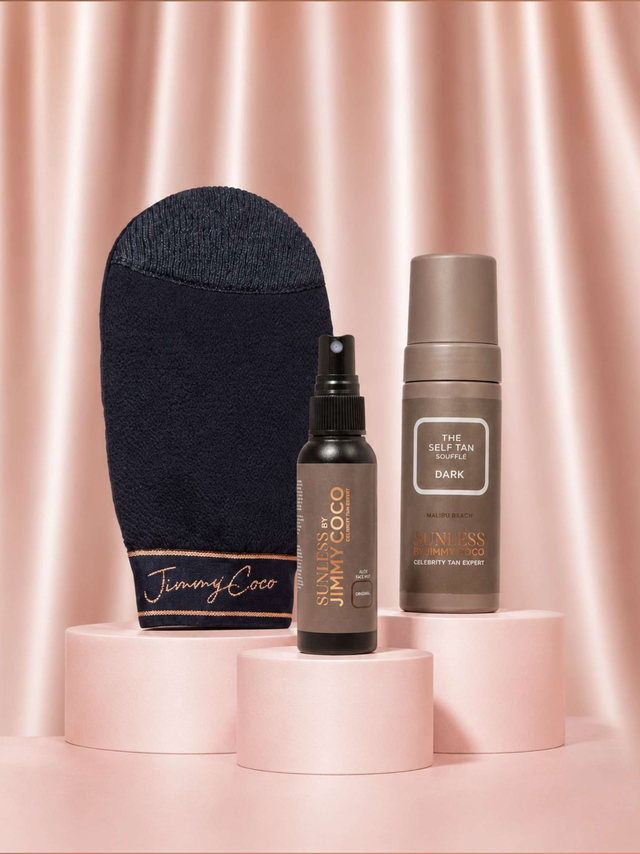
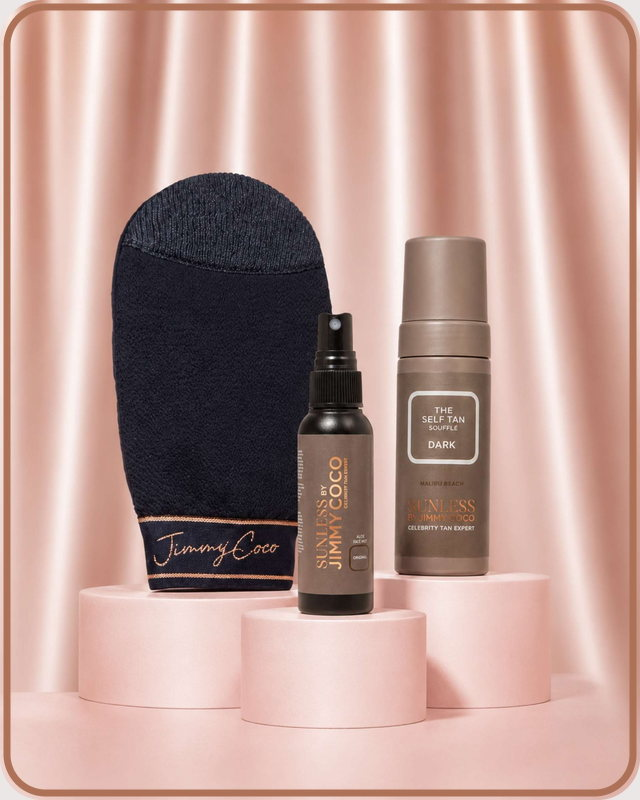
UpdateImages

diff --git a/existing-campaigns/flashsale/fullcampaign/email.html b/existing-campaigns/flashsale/fullcampaign/email.html
@@ -100,7 +100,7 @@
 
         <td class="third" width="33.33%" valign="top" align="center" style="padding:0;">
           <table role="presentation" width="100%" cellpadding="0" cellspacing="0" border="0"><tr><td class="third-gap" align="center" style="padding:0 7px;">
-          <a href="https://jimmycoco.co.uk" target="_blank"><img class="fluid" src="https://jimmycoco.email/email-assets/flash-sale/images/bundle-duo.jpg" width="320" height="427" alt="Malibu Beach Duo &mdash; two Self Tan Souffl&eacute;s" style="display:block;width:100%;max-width:180px;height:auto;border:0;margin:0 auto;"></a>
+          <a href="https://jimmycoco.co.uk" target="_blank"><img class="fluid" src="https://jimmycoco.email/email-assets/flash-sale/images/bundle-duo.jpg" width="180" height="225" alt="Malibu Beach Duo &mdash; two Self Tan Souffl&eacute;s" style="display:block;width:100%;max-width:180px;height:auto;border:0;margin:0 auto;"></a>
           <p class="serif bronze bundle-name" style="margin:14px 0 6px;font-family:'Playfair Display',Georgia,serif;font-size:15px;line-height:20px;color:#A36B52;">Malibu Beach Duo</p>
           <p class="sans bundle-price" style="margin:0;font-family:'Poppins',Arial,sans-serif;font-size:15px;line-height:21px;color:#9B5F44;"><span style="text-decoration:line-through;color:#B58974;font-weight:400;">WAS &pound;35</span> <strong style="font-weight:600;color:#9B5F44;">NOW &pound;28</strong></p>
           </td></tr></table>
@@ -108,7 +108,7 @@
 
         <td class="third" width="33.33%" valign="top" align="center" style="padding:0;">
           <table role="presentation" width="100%" cellpadding="0" cellspacing="0" border="0"><tr><td class="third-gap" align="center" style="padding:0 7px;">
-          <a href="https://jimmycoco.co.uk" target="_blank"><img class="fluid" src="https://jimmycoco.email/email-assets/flash-sale/images/bundle-glow-kit.jpg" width="320" height="427" alt="A-List Glow Kit &mdash; mitt, brushes, souffl&eacute; and face mist" style="display:block;width:100%;max-width:180px;height:auto;border:0;margin:0 auto;"></a>
+          <a href="https://jimmycoco.co.uk" target="_blank"><img class="fluid" src="https://jimmycoco.email/email-assets/flash-sale/images/bundle-glow-kit.jpg" width="180" height="225" alt="A-List Glow Kit &mdash; mitt, brushes, souffl&eacute; and face mist" style="display:block;width:100%;max-width:180px;height:auto;border:0;margin:0 auto;"></a>
           <p class="serif bronze bundle-name" style="margin:14px 0 6px;font-family:'Playfair Display',Georgia,serif;font-size:15px;line-height:20px;color:#A36B52;">A-List Glow Kit</p>
           <p class="sans bundle-price" style="margin:0;font-family:'Poppins',Arial,sans-serif;font-size:15px;line-height:21px;color:#9B5F44;"><span style="text-decoration:line-through;color:#B58974;font-weight:400;">WAS &pound;75</span> <strong style="font-weight:600;color:#9B5F44;">NOW &pound;48</strong></p>
           </td></tr></table>
@@ -116,7 +116,7 @@
 
         <td class="third" width="33.33%" valign="top" align="center" style="padding:0;">
           <table role="presentation" width="100%" cellpadding="0" cellspacing="0" border="0"><tr><td class="third-gap" align="center" style="padding:0 7px;">
-          <a href="https://jimmycoco.co.uk" target="_blank"><img class="fluid" src="https://jimmycoco.email/email-assets/flash-sale/images/bundle-essentials.jpg" width="320" height="427" alt="A-List Essentials &mdash; mitt, face mist and souffl&eacute;" style="display:block;width:100%;max-width:180px;height:auto;border:0;margin:0 auto;"></a>
+          <a href="https://jimmycoco.co.uk" target="_blank"><img class="fluid" src="https://jimmycoco.email/email-assets/flash-sale/images/bundle-essentials.jpg" width="180" height="225" alt="A-List Essentials &mdash; mitt, face mist and souffl&eacute;" style="display:block;width:100%;max-width:180px;height:auto;border:0;margin:0 auto;"></a>
           <p class="serif bronze bundle-name" style="margin:14px 0 6px;font-family:'Playfair Display',Georgia,serif;font-size:15px;line-height:20px;color:#A36B52;">A-List Essentials</p>
           <p class="sans bundle-price" style="margin:0;font-family:'Poppins',Arial,sans-serif;font-size:15px;line-height:21px;color:#9B5F44;"><span style="text-decoration:line-through;color:#B58974;font-weight:400;">WAS &pound;49</span> <strong style="font-weight:600;color:#9B5F44;">NOW &pound;37</strong></p>
           </td></tr></table>

diff --git a/existing-campaigns/flashsale/fullcampaign/index.html b/existing-campaigns/flashsale/fullcampaign/index.html
@@ -100,7 +100,7 @@
 
         <td class="third" width="33.33%" valign="top" align="center" style="padding:0;">
           <table role="presentation" width="100%" cellpadding="0" cellspacing="0" border="0"><tr><td class="third-gap" align="center" style="padding:0 7px;">
-          <a href="https://jimmycoco.co.uk" target="_blank"><img class="fluid" src="images/bundle-duo.jpg" width="320" height="427" alt="Malibu Beach Duo &mdash; two Self Tan Souffl&eacute;s" style="display:block;width:100%;max-width:180px;height:auto;border:0;margin:0 auto;"></a>
+          <a href="https://jimmycoco.co.uk" target="_blank"><img class="fluid" src="images/bundle-duo.jpg" width="180" height="225" alt="Malibu Beach Duo &mdash; two Self Tan Souffl&eacute;s" style="display:block;width:100%;max-width:180px;height:auto;border:0;margin:0 auto;"></a>
           <p class="serif bronze bundle-name" style="margin:14px 0 6px;font-family:'Playfair Display',Georgia,serif;font-size:15px;line-height:20px;color:#A36B52;">Malibu Beach Duo</p>
           <p class="sans bundle-price" style="margin:0;font-family:'Poppins',Arial,sans-serif;font-size:15px;line-height:21px;color:#9B5F44;"><span style="text-decoration:line-through;color:#B58974;font-weight:400;">WAS &pound;35</span> <strong style="font-weight:600;color:#9B5F44;">NOW &pound;28</strong></p>
           </td></tr></table>
@@ -108,7 +108,7 @@
 
         <td class="third" width="33.33%" valign="top" align="center" style="padding:0;">
           <table role="presentation" width="100%" cellpadding="0" cellspacing="0" border="0"><tr><td class="third-gap" align="center" style="padding:0 7px;">
-          <a href="https://jimmycoco.co.uk" target="_blank"><img class="fluid" src="images/bundle-glow-kit.jpg" width="320" height="427" alt="A-List Glow Kit &mdash; mitt, brushes, souffl&eacute; and face mist" style="display:block;width:100%;max-width:180px;height:auto;border:0;margin:0 auto;"></a>
+          <a href="https://jimmycoco.co.uk" target="_blank"><img class="fluid" src="images/bundle-glow-kit.jpg" width="180" height="225" alt="A-List Glow Kit &mdash; mitt, brushes, souffl&eacute; and face mist" style="display:block;width:100%;max-width:180px;height:auto;border:0;margin:0 auto;"></a>
           <p class="serif bronze bundle-name" style="margin:14px 0 6px;font-family:'Playfair Display',Georgia,serif;font-size:15px;line-height:20px;color:#A36B52;">A-List Glow Kit</p>
           <p class="sans bundle-price" style="margin:0;font-family:'Poppins',Arial,sans-serif;font-size:15px;line-height:21px;color:#9B5F44;"><span style="text-decoration:line-through;color:#B58974;font-weight:400;">WAS &pound;75</span> <strong style="font-weight:600;color:#9B5F44;">NOW &pound;48</strong></p>
           </td></tr></table>
@@ -116,7 +116,7 @@
 
         <td class="third" width="33.33%" valign="top" align="center" style="padding:0;">
           <table role="presentation" width="100%" cellpadding="0" cellspacing="0" border="0"><tr><td class="third-gap" align="center" style="padding:0 7px;">
-          <a href="https://jimmycoco.co.uk" target="_blank"><img class="fluid" src="images/bundle-essentials.jpg" width="320" height="427" alt="A-List Essentials &mdash; mitt, face mist and souffl&eacute;" style="display:block;width:100%;max-width:180px;height:auto;border:0;margin:0 auto;"></a>
+          <a href="https://jimmycoco.co.uk" target="_blank"><img class="fluid" src="images/bundle-essentials.jpg" width="180" height="225" alt="A-List Essentials &mdash; mitt, face mist and souffl&eacute;" style="display:block;width:100%;max-width:180px;height:auto;border:0;margin:0 auto;"></a>
           <p class="serif bronze bundle-name" style="margin:14px 0 6px;font-family:'Playfair Display',Georgia,serif;font-size:15px;line-height:20px;color:#A36B52;">A-List Essentials</p>
           <p class="sans bundle-price" style="margin:0;font-family:'Poppins',Arial,sans-serif;font-size:15px;line-height:21px;color:#9B5F44;"><span style="text-decoration:line-through;color:#B58974;font-weight:400;">WAS &pound;49</span> <strong style="font-weight:600;color:#9B5F44;">NOW &pound;37</strong></p>
           </td></tr></table>

diff --git a/existing-campaigns/flashsale/fullcampaign/make_assets.py b/existing-campaigns/flashsale/fullcampaign/make_assets.py
@@ -62,6 +62,40 @@ def trim(im, thresh=244, pad=0):
                     min(rows.max() + 1 - pad, im.size[1])))
 
 
+CARD_EDGE = (173, 113, 87)   # #AD7157 outline sampled from the design
+
+
+def card(im, radius_pct=0.066, stroke_pct=0.011, bg=None, edge=CARD_EDGE):
+    """Round the corners and stroke an outline, baked into the pixels.
+
+    Outlook's Word engine ignores border-radius, so doing this in CSS would give three
+    square cards there and rounded ones everywhere else. Drawing it into the JPEG on the
+    page background means every client renders the same card.
+    Mask is built at 4x and downsampled so the arcs are smooth.
+    """
+    bg = bg or PAGE
+    w, h = im.size
+    r = max(2, round(min(w, h) * radius_pct))
+    sw = max(1, round(w * stroke_pct))
+    SS = 4
+
+    mask = Image.new('L', (w * SS, h * SS), 0)
+    ImageDraw.Draw(mask).rounded_rectangle([0, 0, w * SS - 1, h * SS - 1],
+                                           radius=r * SS, fill=255)
+    mask = mask.resize((w, h), Image.LANCZOS)
+
+    out = Image.new('RGB', (w, h), bg)
+    out.paste(im, (0, 0), mask)
+
+    line = Image.new('L', (w * SS, h * SS), 0)
+    ImageDraw.Draw(line).rounded_rectangle(
+        [sw * SS // 2, sw * SS // 2, w * SS - 1 - sw * SS // 2, h * SS - 1 - sw * SS // 2],
+        radius=r * SS, outline=255, width=sw * SS)
+    line = line.resize((w, h), Image.LANCZOS)
+    out.paste(Image.new('RGB', (w, h), edge), (0, 0), line)
+    return out
+
+
 load = lambda n: Image.open(os.path.join(SRC, n)).convert('RGB')
 
 # ---- hero: photograph + composited flash-sale lockup (see make_hero.mjs) -----
@@ -72,7 +106,7 @@ save(Image.open('hero-raw.png'), 'hero', q=86)
 print('\nBundle cards:')
 for src, name in [('9.jpg', 'bundle-duo'), ('10.jpg', 'bundle-glow-kit'),
                   ('11.jpg', 'bundle-essentials')]:
-    save(cover(trim(load(src), pad=6), 640, 854), name)
+    save(card(cover(trim(load(src), pad=10), 640, 800)), name)
 
 # ---- full-bleed model band ---------------------------------------------------
 print('\nBands:')

diff --git a/existing-campaigns/flashsale/fullcampaign/README.md b/existing-campaigns/flashsale/fullcampaign/README.md
@@ -52,12 +52,21 @@ would also strip the white label panels on the bottles.
 | Slot | Source | Export | Display |
 |---|---|---|---|
 | Hero | `6.jpg` + lockup | `hero.jpg` 1200×1700 | 600×850 |
-| Bundle cards | `9`, `10`, `11.jpg` | 640×854 each | 180×240 desktop, full width mobile |
+| Bundle cards | `9`, `10`, `11.jpg` | 640×800 each | 180×225 desktop, full width mobile |
 | Model band | `7.jpg` | `model-band.jpg` 1200×660 | 600×330 |
 | Kylie | `8.jpg` | `kylie.jpg` 760×1000 | 380×500 |
 | Glow Edit | `12.jpg` | `glow-edit.jpg` 660×1094 | 330×547 |
 | Signature | `13.jpg` | `signature.jpg` 560×200 | 170×61 |
 | Brand mark | `fullcampaign/image.png` | `logo.png` 480×146 | 240×73 |
+
+### Card frames
+
+The three bundle cards carry a rounded `#AD7157` outline, matching the design. That frame is
+**drawn into the JPEG**, not applied with CSS: Outlook's Word engine ignores `border-radius`,
+so a CSS treatment would give rounded cards in Apple Mail and Gmail and square ones in
+Outlook. `card()` masks the corners against the page background and strokes the outline,
+building the mask at 4× and downsampling so the arcs stay smooth. Radius and stroke are
+proportional (6.6% and 1.1% of card width), sampled off the design page.
 
 ## Recreated graphics
 
